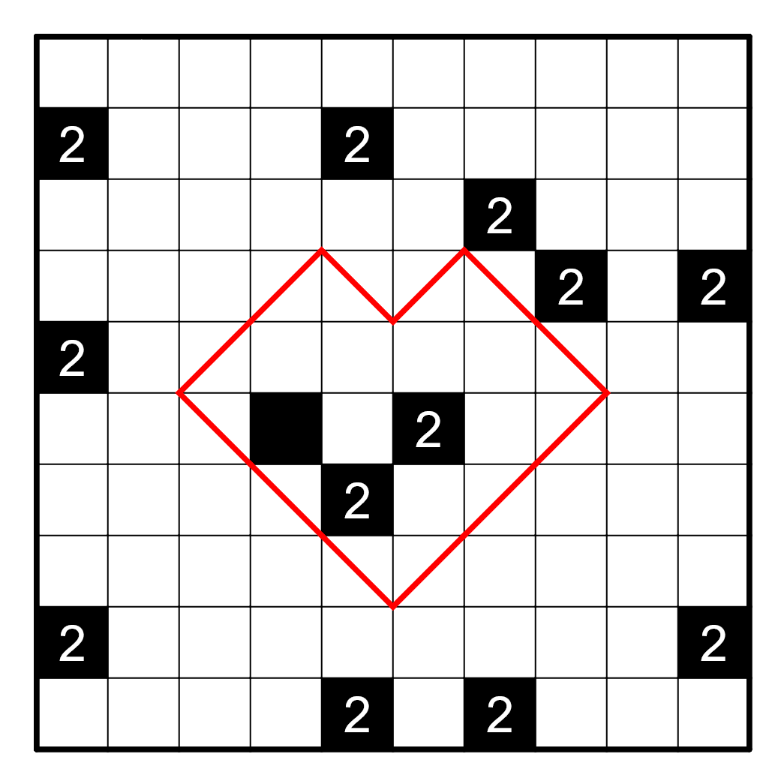
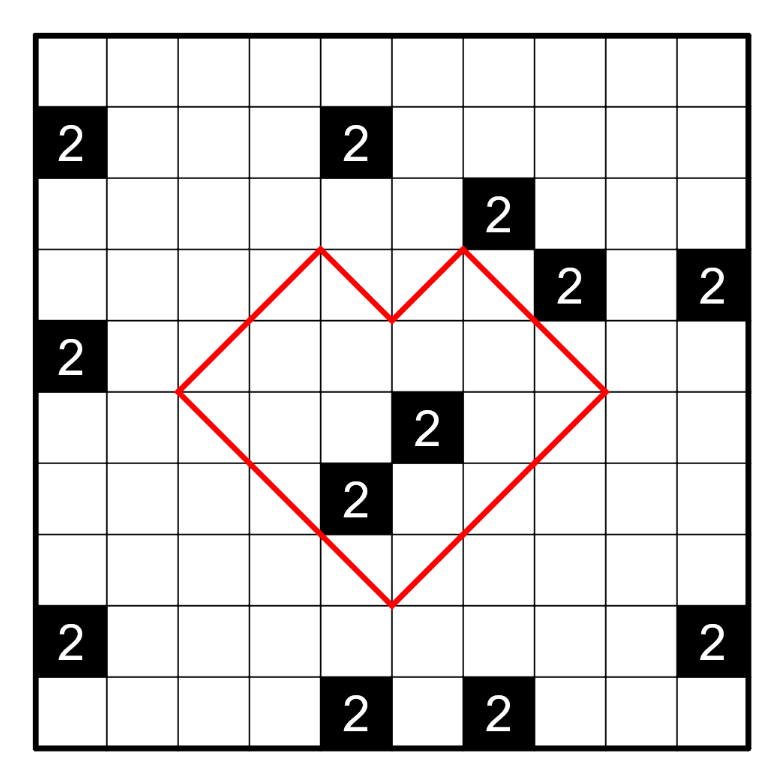
update: Improve It Takes Two

diff --git a/source/_posts/valentines-2025.md b/source/_posts/valentines-2025.md
@@ -10,6 +10,6 @@ categories: Puzzles
 ![grid](it-takes-two.png)
 
 Normal [Shakashaka rules](https://puzz.link/rules.html?shakashaka) apply.
-Diagonal red lines in the above grid are not required to solve the puzzle, but should be considered when looking at the completed grid.
+Diagonal red lines in the above grid must lie on slanted surfaces.
 
-Solve the puzzle on [puzzlink](https://puzz.link/p?shakashaka/10/10/pcgcocn72cp.gclcsclch7cg). Happy Valentine's Day!
+Solve the puzzle on [puzzlink](https://puzz.link/p?shakashaka/10/10/pcgcocn72crclcsclch7cg). Happy Valentine's Day!
